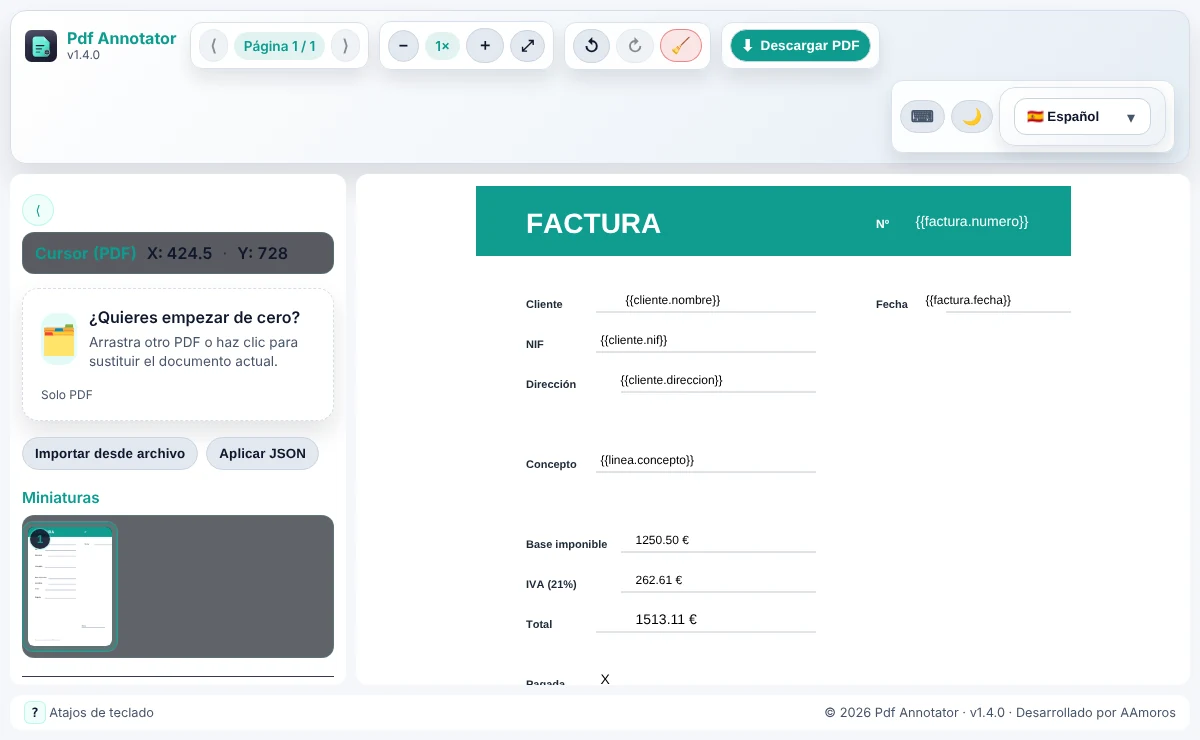
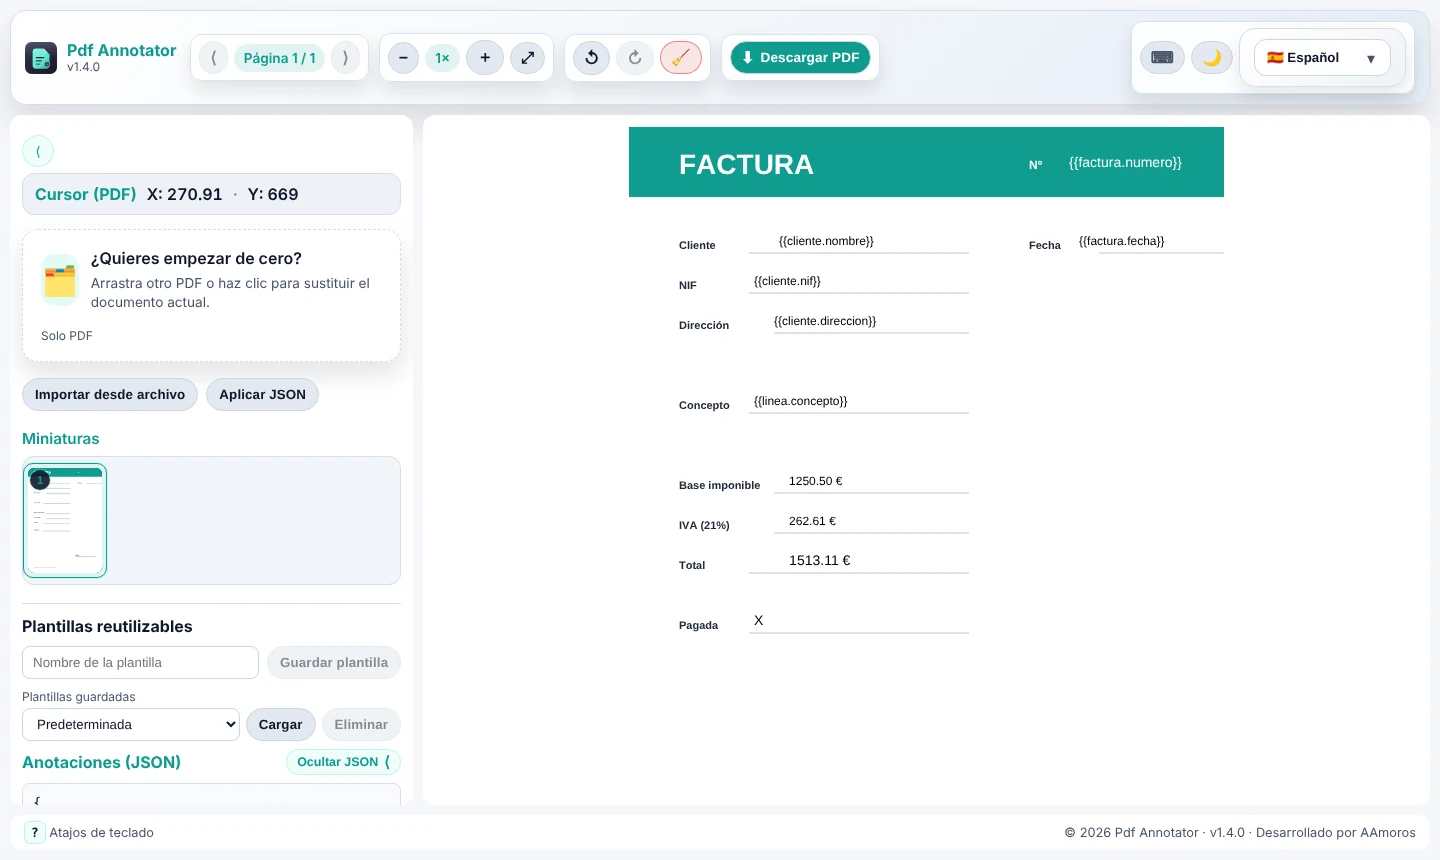
Regenerate landing preview with single-row header and fix light-theme sidebar contrast
Claude-Session: https://claude.ai/code/session_01YZU8XrVQFxd1pAR7vZACGx

diff --git a/src/app/pages/landing/landing.page.html b/src/app/pages/landing/landing.page.html
@@ -59,9 +59,9 @@
         <div class="landing__window">
           <div class="landing__window-bar" aria-hidden="true"><span></span><span></span><span></span></div>
           <img class="landing__preview-img landing__preview-img--dark" src="/assets/landing/preview-dark.webp"
-            [attr.alt]="'app.landing.previewAlt' | t" width="1200" height="740" fetchpriority="high" />
+            [attr.alt]="'app.landing.previewAlt' | t" width="1440" height="860" fetchpriority="high" />
           <img class="landing__preview-img landing__preview-img--light" src="/assets/landing/preview-light.webp"
-            [attr.alt]="'app.landing.previewAlt' | t" width="1200" height="740" fetchpriority="high" />
+            [attr.alt]="'app.landing.previewAlt' | t" width="1440" height="860" fetchpriority="high" />
         </div>
       </figure>
     </section>

diff --git a/src/styles.scss b/src/styles.scss
@@ -2332,3 +2332,34 @@ kbd {
   border-color: #d7dde9;
   box-shadow: none;
 }
+
+/* Light theme: sidebar surfaces that were still dark */
+:root.theme-light .sidebar .json-coords {
+  background: #eef2f7;
+  border-color: #d7dde9;
+  color: var(--text);
+}
+
+:root.theme-light .sidebar .json-coords__label {
+  color: var(--accent);
+}
+
+:root.theme-light .sidebar .json-coords__idle {
+  color: var(--muted);
+}
+
+:root.theme-light .sidebar .sidebar-thumbnails__list {
+  background: #f1f5f9;
+  border-color: #d7dde9;
+}
+
+:root.theme-light .sidebar .templates {
+  border-top-color: #d7dde9;
+}
+
+:root.theme-light .sidebar .templates__save input,
+:root.theme-light .sidebar .templates__controls select {
+  background: #ffffff;
+  border-color: #cbd5e1;
+  color: var(--text);
+}

diff --git a/CHANGELOG.md b/CHANGELOG.md
@@ -1,5 +1,6 @@
 ## Unreleased
 ### Changed
+- Light theme: sidebar cursor box, thumbnails, template inputs now follow the theme
 - Redesigned `/landing`: first screen focused on the action (title, centered drop zone, sample document, compact feature strip), full editor preview below, top bar with GitHub link, theme and language, and a compact open-source footer; fully responsive
 
 ### Added
